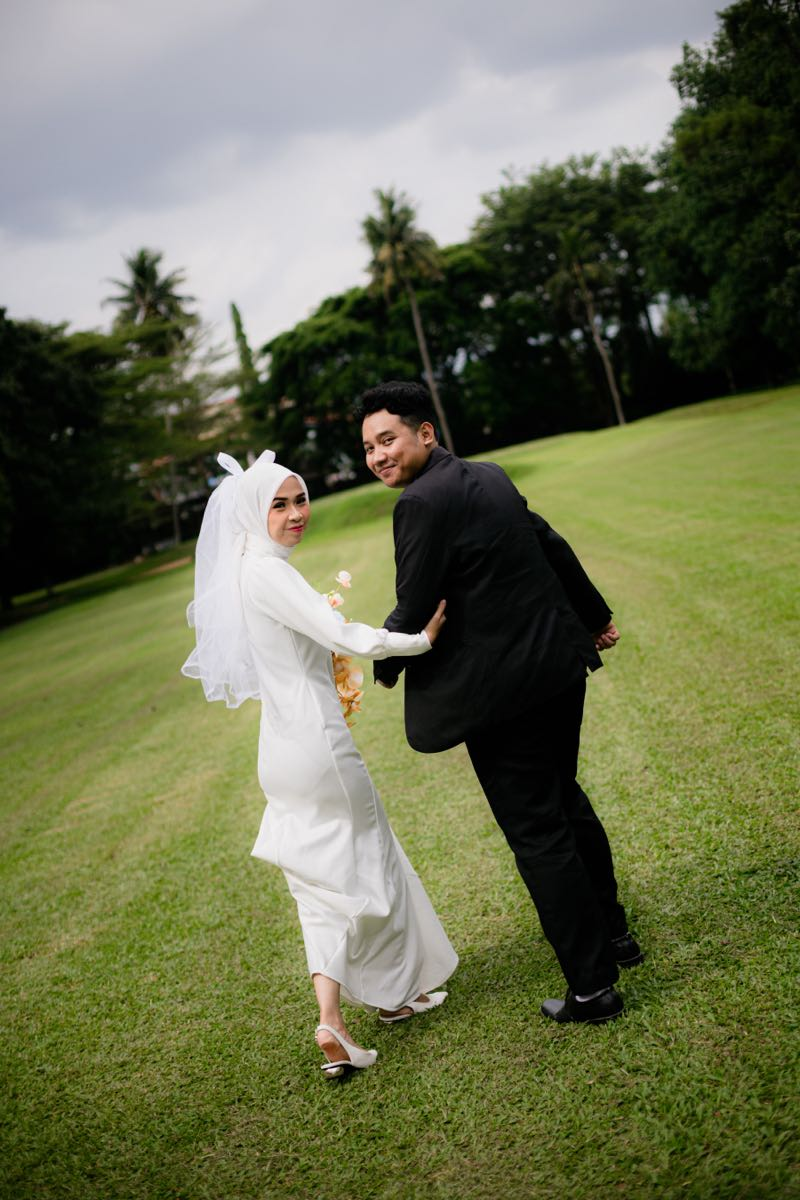
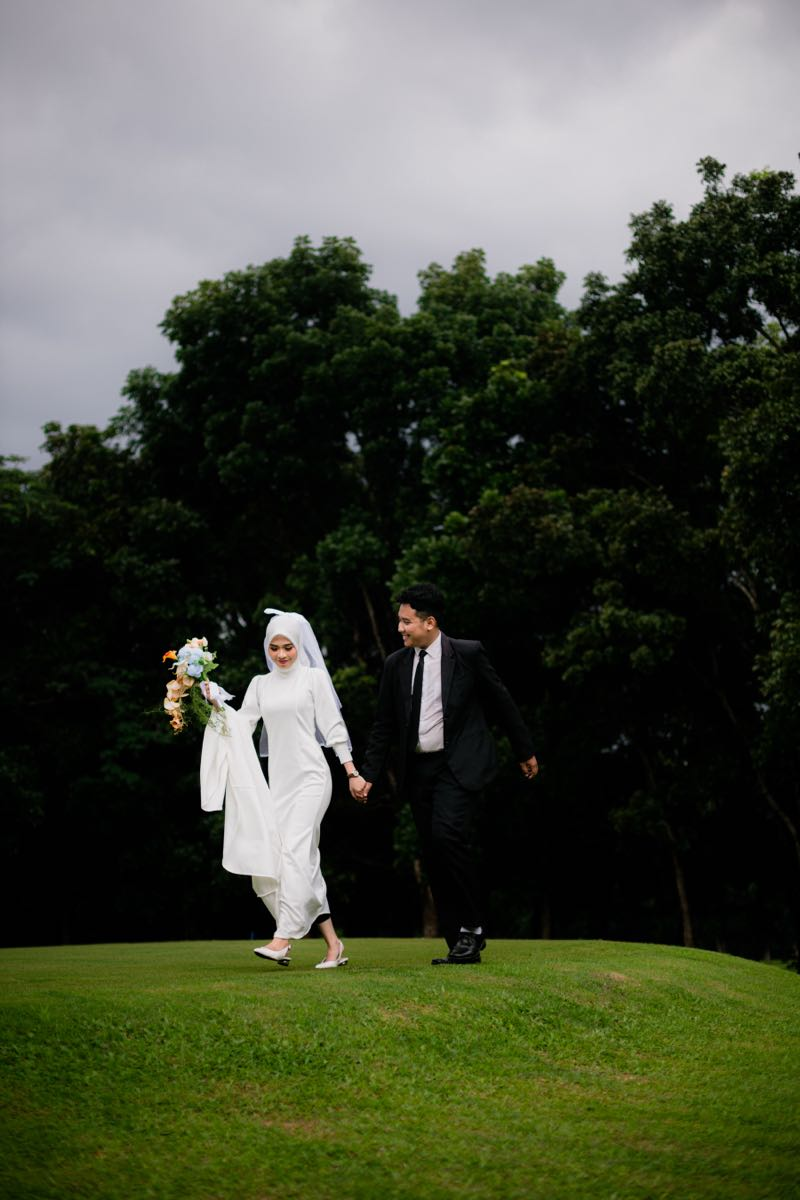
Update gallery-2 and remove redundant gallery-8 from scroll track

diff --git a/index.html b/index.html
@@ -6304,19 +6304,18 @@
 
 							<div class="moments-scroll-container">
 								<div class="moments-scroll-track">
-									<div class="moments-scroll-item" onclick="openLightbox(6)"><img src="./assets/images/gallery-8.jpg"></div>
-									<div class="moments-scroll-item" onclick="openLightbox(7)"><img src="./assets/images/gallery-9.jpg"></div>
-									<div class="moments-scroll-item" onclick="openLightbox(8)"><img src="./assets/images/gallery-10.jpg"></div>
-									<div class="moments-scroll-item" onclick="openLightbox(9)"><img src="./assets/images/gallery-11.jpg"></div>
-									<div class="moments-scroll-item" onclick="openLightbox(10)"><img src="./assets/images/gallery-12.jpg"></div>
-									<div class="moments-scroll-item" onclick="openLightbox(11)"><img src="./assets/images/gallery-13.jpg"></div>
-									<div class="moments-scroll-item" onclick="openLightbox(12)"><img src="./assets/images/gallery-14.jpg"></div>
-									<div class="moments-scroll-item" onclick="openLightbox(13)"><img src="./assets/images/gallery-15.jpg"></div>
-									<div class="moments-scroll-item" onclick="openLightbox(14)"><img src="./assets/images/gallery-16.jpg"></div>
-									<div class="moments-scroll-item" onclick="openLightbox(15)"><img src="./assets/images/gallery-17.jpg"></div>
-									<div class="moments-scroll-item" onclick="openLightbox(16)"><img src="./assets/images/gallery-18.jpg"></div>
-									<div class="moments-scroll-item" onclick="openLightbox(17)"><img src="./assets/images/gallery-19.jpg"></div>
-									<div class="moments-scroll-item" onclick="openLightbox(18)"><img src="./assets/images/gallery-20.jpg"></div>
+									<div class="moments-scroll-item" onclick="openLightbox(6)"><img src="./assets/images/gallery-9.jpg"></div>
+									<div class="moments-scroll-item" onclick="openLightbox(7)"><img src="./assets/images/gallery-10.jpg"></div>
+									<div class="moments-scroll-item" onclick="openLightbox(8)"><img src="./assets/images/gallery-11.jpg"></div>
+									<div class="moments-scroll-item" onclick="openLightbox(9)"><img src="./assets/images/gallery-12.jpg"></div>
+									<div class="moments-scroll-item" onclick="openLightbox(10)"><img src="./assets/images/gallery-13.jpg"></div>
+									<div class="moments-scroll-item" onclick="openLightbox(11)"><img src="./assets/images/gallery-14.jpg"></div>
+									<div class="moments-scroll-item" onclick="openLightbox(12)"><img src="./assets/images/gallery-15.jpg"></div>
+									<div class="moments-scroll-item" onclick="openLightbox(13)"><img src="./assets/images/gallery-16.jpg"></div>
+									<div class="moments-scroll-item" onclick="openLightbox(14)"><img src="./assets/images/gallery-17.jpg"></div>
+									<div class="moments-scroll-item" onclick="openLightbox(15)"><img src="./assets/images/gallery-18.jpg"></div>
+									<div class="moments-scroll-item" onclick="openLightbox(16)"><img src="./assets/images/gallery-19.jpg"></div>
+									<div class="moments-scroll-item" onclick="openLightbox(17)"><img src="./assets/images/gallery-20.jpg"></div>
 								</div>
 								<div id="momentsDots" class="moments-dots"></div>
 							</div>
@@ -7136,7 +7135,6 @@
 			"./assets/images/gallery-4.jpg",
 			"./assets/images/gallery-5.jpg",
 			"./assets/images/gallery-6.jpg",
-			"./assets/images/gallery-8.jpg",
 			"./assets/images/gallery-9.jpg",
 			"./assets/images/gallery-10.jpg",
 			"./assets/images/gallery-11.jpg",